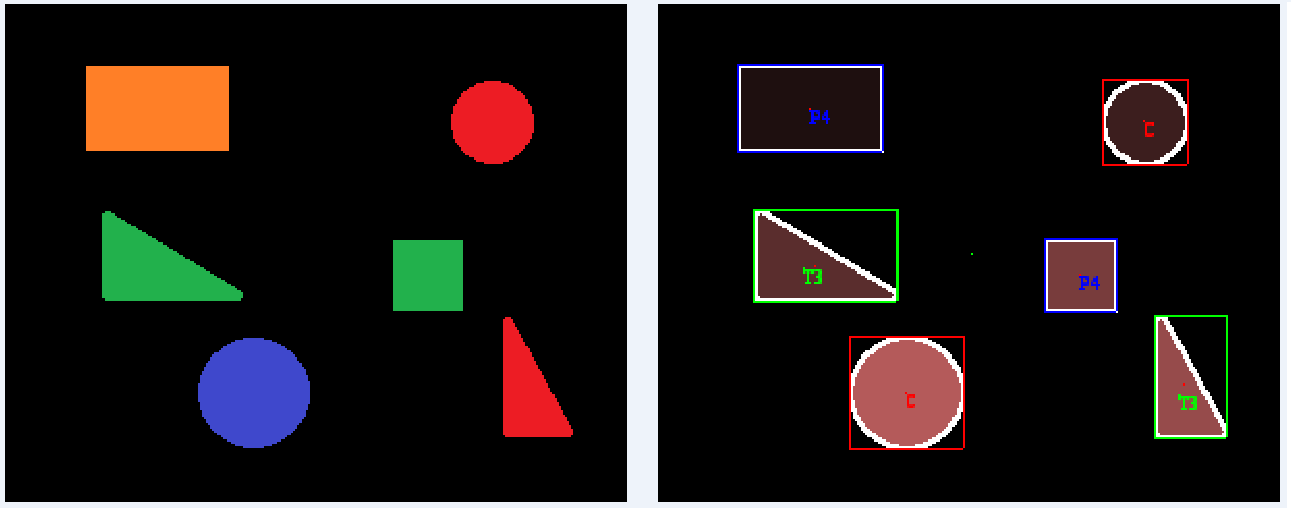
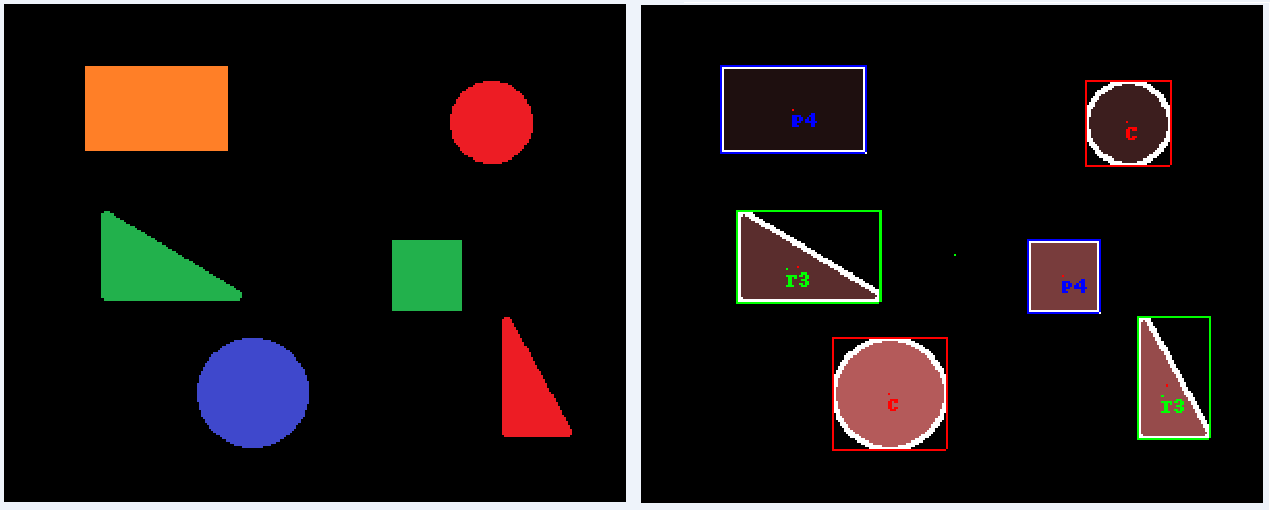
Font changed. New output image for object_detection added (with new font)

diff --git a/object_detection.py b/object_detection.py
@@ -7,7 +7,6 @@ from PIL import ImageDraw
 import math
 import numpy as np
 import time
-import font
 #import matplotlib.pyplot as plt
 
 img = Image.open('figures.png')
@@ -421,7 +420,7 @@ print objects
 print edge_labels
 print sides
 draw = ImageDraw.Draw(im2)
-font = ImageFont.truetype("times.ttf", 9)
+font = ImageFont.load_default()
 detected = [[(255,0,0),'C'],[(255,0,0),'C'],[(0,255,0),'T3'],[(0,0,255),'P4'],[(255,255,0),'P5'],[(255,0,255),'P6'],[(0,255,255),'P7']]
 for z in range(len(objects)):
 	number = sides[z] - 1
